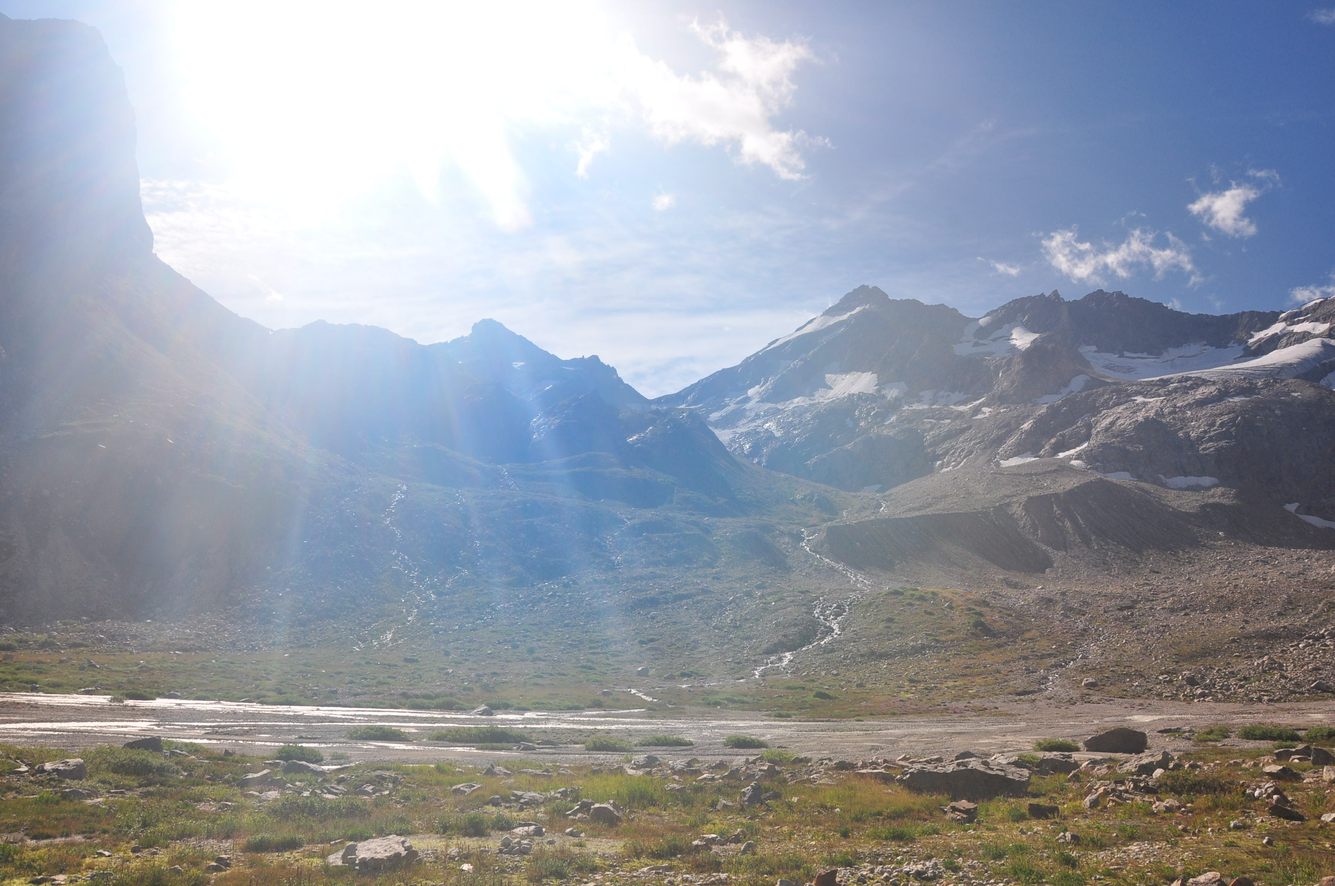
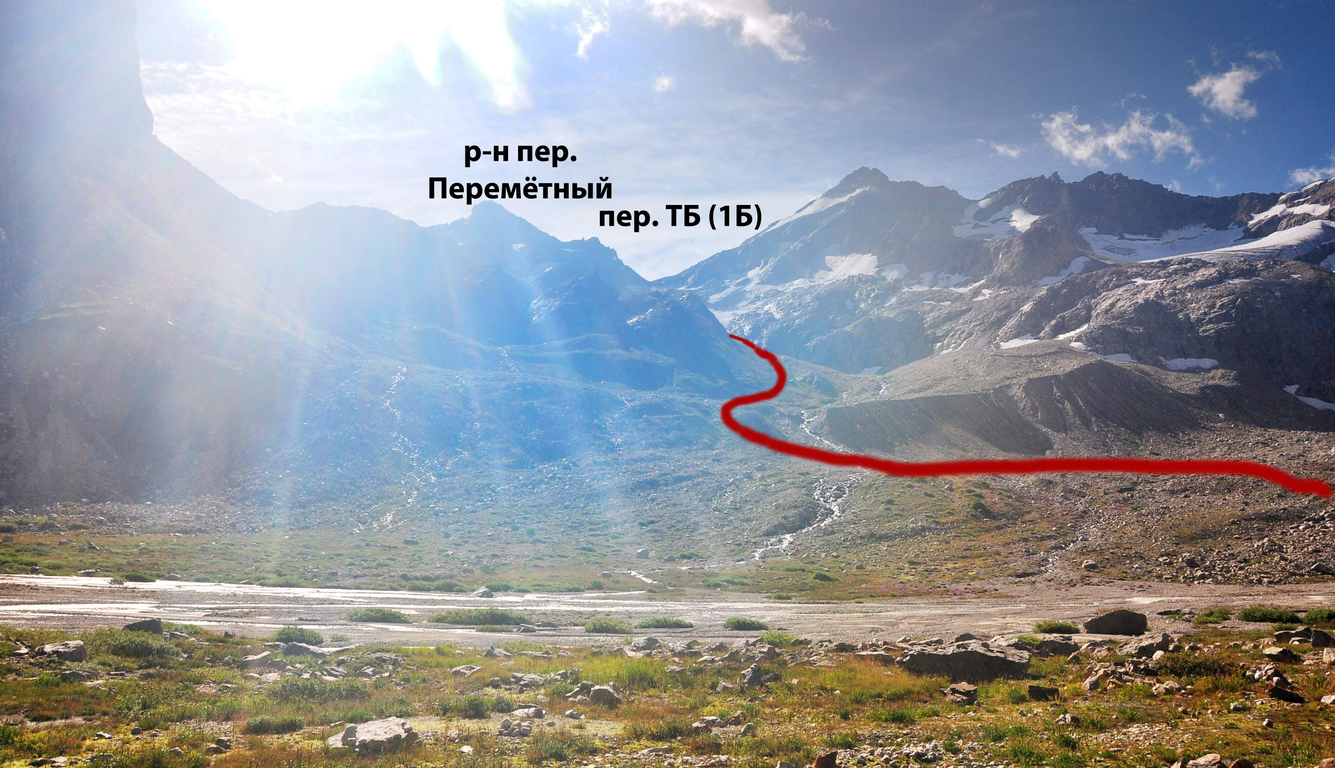
27 aug start

diff --git a/latex-report/aug27.tex b/latex-report/aug27.tex
@@ -7,21 +7,8 @@
 	\label{fig:mini_27}
 \end{figure}
 
-
-
-
-\begin{figure}[h!]
-	\centering
-	\includegraphics[width=0.7\linewidth]{../pics/perem_1}
-	\caption{Начало подъёма к пер. Перемётный из д.р. Чунгур-Джар}
-	\label{fig:perem_1}
-\end{figure} 
-
-
-Метеоусловия: солнечно, тепло
-
-Утром проснулись в 7:00, долго стирались, чинились и сушились, руковод курил какао и размышлял... Переметный было решено брать!
-В 10:00 выдвинуль в сторону перевала.
+Утром проснулись в 7:00. Погода прекрасная: небо ясное, долину постепенно заливает солнцем. Долго стирались, чинились и сушились, руковод курил какао и размышлял... Перемётный было решено брать!
+В 10:00 выдвинулись в сторону перевала.
 
 \begin{figure}[h!]
 	\centering
@@ -30,29 +17,41 @@
 	\label{fig:DSC_0251}
 \end{figure}
 
-\textbf{Задача номер раз:} перейти многорукавье реки Чунгур-Джар. Оказалось сложнее, чем казалось. Часть группы промочила ботинки и усердно их сушила на каждом привале.
+\textbf{Задача номер раз:} перейти многорукавье реки Чунгур-Джар. Есть возможность перебродить реку на урочище Аэродром, при этом некоторые участники могли бы пересечь реку, не замочив ног. Но было принято решение переходить многорукавье реки в верховьях, поднимаясь так, чтобы рукава было можно было перейти посуху всем. Оказалось сложнее, чем казалось. Часть группы всё-таки промочила ботинки и усердно их сушила на каждом привале. 
+
+
 
 \begin{figure}[h!]
 	\centering
 	\includegraphics[width=0.7\linewidth]{../pics/DSC_0254.jpg}
-	\caption{р. Чунгур-Джар. Нам предстоит перебраться через множество ручейков.}
+	\caption{р. Чунгур-Джар. Нам предстоит перебраться через множество ручейков}
 	\label{fig:DSC_0254}
 \end{figure}
+
 \begin{figure}[h!]
 	\centering
 	\includegraphics[width=0.7\linewidth]{../pics/DSC_0277.jpg}
-	\caption{р. Чунгур-Джар. Перебрались.}
+	\caption{р. Чунгур-Джар. Перебрались}
 	\label{fig:DSC_0277}
 \end{figure}
 
-\textbf{Задача номер два:} пройти подъем на перевал. Поднялись на морену по травянисто-каменстому склону, прошли по гребню и попрощались на время с травой. На высоте 2410м (N 43.24135, E 42.24827) начали траверс по сыпухе и под небольшой скалой на соседнюю морену.
+
+\textbf{Задача номер два:} пройти подъём на перевал. Поднялись на морену по травянисто-каменстому склону, прошли по гребню и попрощались на время с травой. На высоте 2990~м (N43.24135\degree, E42.24827\degree4) начали траверс по сыпухе и под небольшой скалой на соседнюю морену.
+
+\begin{figure}[h!]
+	\centering
+	\includegraphics[width=0.7\linewidth]{../pics/perem_1}
+	\caption{Начало подъёма к пер. Перемётный из д.р. Чунгур-Джар}
+	\label{fig:perem_1}
+\end{figure} 
 \begin{figure}[h!]
 	\centering
 	\includegraphics[width=0.7\linewidth]{../pics/DSC_0280.jpg}
-	\caption{Траверс по моренам.}
+	\caption{Траверс по моренам и выход на  моренный гребень}
 	\label{fig:DSC_0280}
 \end{figure} 
-После этого - прямым курсом на перевал. С задачей два справились в 14:38. На перевале сняли записку группы туристов из Ростова-на-Дону и Новочеркасска от 20.08.2019 \ref{pic:peremetnyy}. Примечательно, что эта группа в свое время сняла записку Горной секции МФТИ под руководством Королева Андрея от 2018 года - в этот поход ходила руковод.
+
+После этого~--- прямым курсом на перевал. С задачей два справились в 14:38. На перевале сняли записку группы туристов из Ростова-на-Дону и Новочеркасска от 20.08.2019 \ref{pic:peremetnyy}. Примечательно, что эта группа в свое время сняла записку Горной секции МФТИ под руководством Королева Андрея от 2018 года - в этот поход ходила руковод.
 
 \begin{figure}[h!]
 	\centering
@@ -65,10 +64,10 @@
 \begin{figure}[h!]
 	\centering
 	\includegraphics[width=0.7\linewidth]{../pics/perem_down.png}
-	\caption{Спуск с перевала переметный.}
+	\caption{Спуск с перевала Перемётный}
 	\label{perem_down}
 \end{figure} 
-Выдвинулись в 15:38. Вниз сначала шли по сыпухе забирая влево, усердно считали моренные валы чтобы не ошибиться и не угодить в березняк. По пути старались расставлять турики, но время подгоняло, в маршруте мы были не  уверены и на полпути мы это дело забросили.  Потом начался травянистый склон, альпеншток альпеншточил на все 100. После спуска на 130 м выбрались на курумник, на котором не обошлось без легкого кровопролития. К сумеркам снова вышли на травянистый склон. Русло пересохшего ручья (N 43.25779° E 42.27107°), засыпанного крупными камнями, предоставило удобный вариант до спуска. К моменту, когда мы добрались до зарослей рододендронов, уже порядком стемнело (19:05), дальше по лощине шли с фонарикам. 
+Выдвинулись в 15:38. Вниз сначала шли по сыпухе забирая влево, усердно считали моренные валы чтобы не ошибиться и не угодить в березняк. По пути старались расставлять турики, но время подгоняло, в маршруте мы были не  уверены и на полпути мы это дело забросили.  Потом начался травянистый склон, альпеншток альпеншточил на все 100. После спуска на 130 м выбрались на курумник, на котором не обошлось без легкого кровопролития. К сумеркам снова вышли на травянистый склон. Русло пересохшего ручья (N 43.25779\degree E 42.27107\degree), засыпанного крупными камнями, предоставило удобный вариант до спуска. К моменту, когда мы добрались до зарослей рододендронов, уже порядком стемнело (19:05), дальше по лощине шли с фонарикам. 
 
 В 20:00 вышли на отличную стоянку на берегу реки Танышхан (N 43.26002, E 42.27489). Поужинали, и легли спать. С задачей три справились!
 

diff --git a/latex-report/aug26.tex b/latex-report/aug26.tex
@@ -54,7 +54,7 @@
 	\label{fig:DSC_0239}
 \end{figure}
 
-Спуск идёт также по хорошо набитой тропе травянисто-осыпного склона. Идём по тропе, периодически встречаются туры, справа от тропы живописный вид на ГКХ? ледник Чунгур-Джар. Ливень превращается в мелкий дождь. В 15:00 спускаемся на урочище Аэродром в д.р Чунгур-Джар, на левом берегу находим огороженные камнями места под палатки и разбиваем лагерь. Дождь не прекращается, сопровождается сильным ветром.
+Спуск идёт также по хорошо набитой тропе травянисто-осыпного склона. Идём по тропе, периодически встречаются туры, справа от тропы живописный вид на ГКХ, ледник Чунгур-Джар. Ливень превращается в мелкий дождь. В 15:00 спускаемся на урочище Аэродром в д.р Чунгур-Джар, на левом берегу находим огороженные камнями места под палатки и разбиваем лагерь. Дождь не прекращается, сопровождается сильным ветром.
 
 Дежурные и руководитель готовят обед, остальные сушатся и греются в палатках. Координаты м.н. N43.248385\degree,~E42.236151\degree.
 
